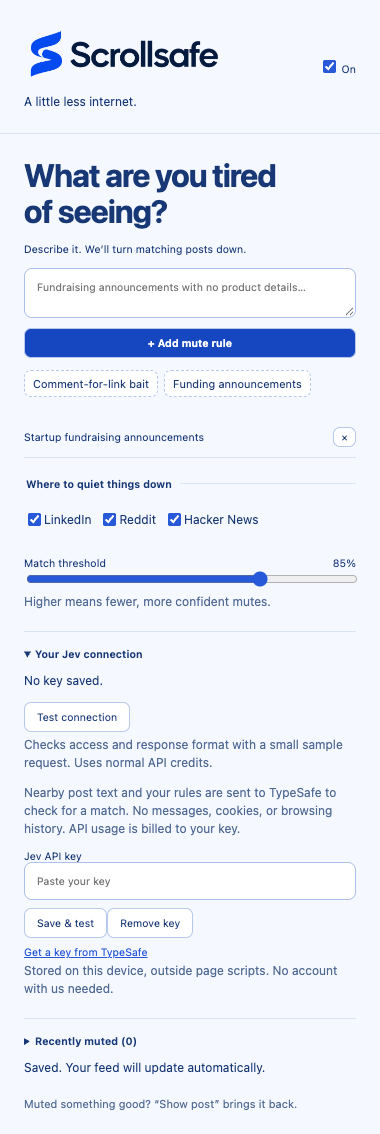
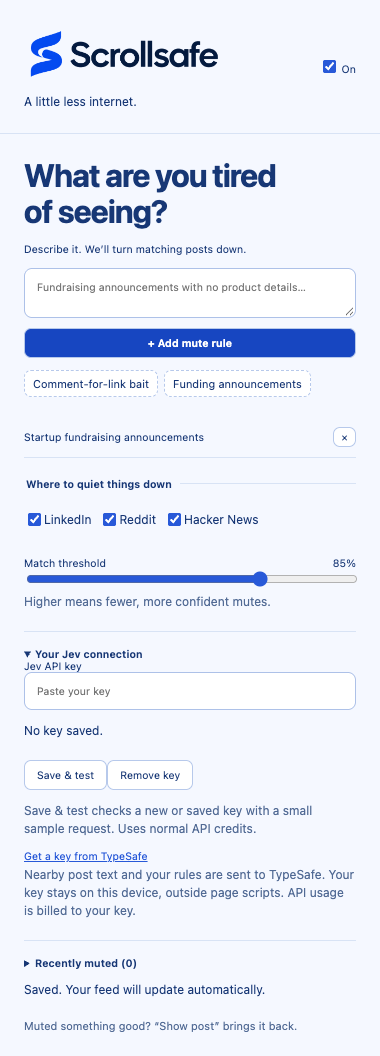
Fix silent API key setup and keep connection feedback visible

diff --git a/src/popup.ts b/src/popup.ts
@@ -1,6 +1,8 @@
 import {normalize,type Settings,type Site} from './core';
 const $=<T extends HTMLElement>(id:string)=>document.getElementById(id) as T;
 let config:Settings;
+let checking=false;
+function connectionStatus(text:string,state='pending'){const el=$('connection-status');el.textContent=text;el.dataset.state=state;}
 const status=(text:string)=>{$('status').textContent=text;};
 async function save(){await chrome.storage.local.set({settings:config});status('Saved. Your feed will update automatically.');}
 function render(){
@@ -13,7 +15,7 @@ function render(){
 async function add(rule:string){if(config.rules.length>=10){status('Up to 10 rules for now. Remove one to add another.');return;}if(!rule.trim()||config.rules.includes(rule.trim()))return;config.rules.push(rule.trim().slice(0,200));render();await save();}
 async function init(){const data=await chrome.storage.local.get(['settings','apiKey','lastError']);config=normalize(data.settings);render();$<HTMLDetailsElement>('setup').open=!data.apiKey;status(typeof data.lastError==='string'?data.lastError: (data.apiKey?'':'Add a Jev key to start muting.'));
   await renderDiagnostics();
-  $('test-connection').onclick=()=>{void testConnection();};
+  $<HTMLInputElement>('key').oninput=()=>{connectionStatus('Key entered. Click Save & test to connect.');};
   $('clear-history').onclick=async()=>{await chrome.storage.local.remove('hiddenPosts');await renderDiagnostics();};
   chrome.storage.onChanged.addListener(changes=>{if(changes.connection||changes.hiddenPosts||changes.apiKey)void renderDiagnostics();if(changes.lastError)status(typeof changes.lastError.newValue==='string'?changes.lastError.newValue:'');});
   $('rule-form').onsubmit=async e=>{e.preventDefault();await add($<HTMLTextAreaElement>('rule').value);$<HTMLTextAreaElement>('rule').value='';};
@@ -22,14 +24,14 @@ async function init(){const data=await chrome.storage.local.get(['settings','api
   for(const site of ['linkedin','reddit','hn'] as Site[])$<HTMLInputElement>(site).onchange=async e=>{config.sites[site]=(e.target as HTMLInputElement).checked;await save();};
   $<HTMLInputElement>('threshold').oninput=e=>{$('threshold-value').textContent=`${(e.target as HTMLInputElement).value}%`;};
   $<HTMLInputElement>('threshold').onchange=async e=>{config.threshold=Number((e.target as HTMLInputElement).value)/100;await save();};
-  $('key-form').onsubmit=async e=>{e.preventDefault();const key=$<HTMLInputElement>('key');if(!key.value.trim()){status('Paste a key first.');return;}await chrome.storage.local.set({apiKey:key.value.trim()});await chrome.storage.local.remove('lastError');key.value='';await testConnection();};
+  $('key-form').onsubmit=e=>{e.preventDefault();void testConnection();};
   $('clear-key').onclick=async()=>{await chrome.storage.local.remove('apiKey');await chrome.storage.local.remove(['connection','lastError']);await renderDiagnostics();status('Key removed. Posts will remain visible.');};
 }
 async function renderDiagnostics(){
   const data=await chrome.storage.local.get(['connection','apiKey','hiddenPosts']);
   const connection=data.connection as {ok:boolean;checkedAt:number;latencyMs?:number;error?:string}|undefined;
-  $('connection-status').textContent=!data.apiKey?'No key saved.':!connection?'Key saved — not tested yet.':connection.ok?`Connection verified · ${connection.latencyMs} ms. Jev returned a valid response at ${new Date(connection.checkedAt).toLocaleString()}.`: `Connection failed: ${connection.error}`;
-  $('connection-status').dataset.state=connection?.ok?'success':connection?'error':'pending';
+  if(!checking&&!$<HTMLInputElement>('key').value) $('connection-status').textContent=!data.apiKey?'No key saved.':!connection?'Key saved — not tested yet.':connection.ok?`Connection verified · ${connection.latencyMs} ms. Jev returned a valid response at ${new Date(connection.checkedAt).toLocaleString()}.`: `Connection failed: ${connection.error}`;
+  if(!checking&&!$<HTMLInputElement>('key').value) $('connection-status').dataset.state=connection?.ok?'success':connection?'error':'pending';
   const entries=Array.isArray(data.hiddenPosts)?data.hiddenPosts:[];
   $('hidden-count').textContent=`(${entries.length})`;
   $('hidden-posts').replaceChildren();
@@ -43,10 +45,34 @@ async function renderDiagnostics(){
   }
 }
 async function testConnection(){
-  const button=$<HTMLButtonElement>('test-connection');button.disabled=true;button.textContent='Testing…';
-  $('connection-status').textContent='Checking TypeSafe with a small sample post…';
-  try{const result=await chrome.runtime.sendMessage({type:'testConnection'});await renderDiagnostics();if(!result?.ok)$('connection-status').textContent=result?.error||'Connection check failed. Try again.';}
-  catch{$('connection-status').textContent='Could not reach the extension. Reload it and try again.';}
-  finally{button.disabled=false;button.textContent='Test connection';}
+  if(checking)return;
+  checking=true;
+  const button=$<HTMLButtonElement>('test-connection'),key=$<HTMLInputElement>('key'),remove=$<HTMLButtonElement>('clear-key');
+  button.disabled=true;remove.disabled=true;key.disabled=true;button.textContent='Connecting…';
+  connectionStatus('Saving and checking your connection…');
+  $('connection-status').scrollIntoView({block:'nearest'});
+  let timer:ReturnType<typeof setTimeout>|undefined;
+  try{
+    const draft=key.value.trim();
+    if(draft){await chrome.storage.local.remove(['connection','lastError']);await chrome.storage.local.set({apiKey:draft});}
+    const {apiKey}=await chrome.storage.local.get('apiKey');
+    if(!apiKey){connectionStatus('Paste your TypeSafe key first.','error');return;}
+    connectionStatus('Contacting TypeSafe… This can take up to 15 seconds.');
+    const result=await Promise.race([
+      chrome.runtime.sendMessage({type:'testConnection'}),
+      new Promise<never>((_,reject)=>{timer=setTimeout(()=>reject(new Error('Connection check timed out. Reload the extension and try again.')),20000);})
+    ]);
+    if(result?.ok){
+      key.value='';key.placeholder='Key saved · paste to replace';
+      connectionStatus(`Connected to TypeSafe · ${result.latencyMs} ms. Jev returned a valid response.`, 'success');
+    }else{connectionStatus(result?.error||'No response from the extension. Reload it at chrome://extensions and try again.','error');}
+  }catch(e){
+    const detail=e instanceof Error?e.message:'';
+    connectionStatus(/timed out/.test(detail)?detail:'Could not save or check the key. Reload Scrollsafe at chrome://extensions and try again.','error');
+  }finally{
+    if(timer)clearTimeout(timer);
+    checking=false;button.disabled=false;remove.disabled=false;key.disabled=false;button.textContent='Save & test';
+    $('connection-status').scrollIntoView({block:'nearest'});
+  }
 }
-void init();
+void init().catch(()=>{connectionStatus('Setup failed to load. Reload Scrollsafe at chrome://extensions and reopen this popup.','error');$<HTMLDetailsElement>('setup').open=true;});

diff --git a/public/popup.html b/public/popup.html
@@ -6,6 +6,8 @@
 <ul id="rules"></ul><p id="empty">Nothing muted yet. Add your first rule above.</p>
 <fieldset><legend>Where to quiet things down</legend><label><input id="linkedin" type="checkbox"> LinkedIn</label><label><input id="reddit" type="checkbox"> Reddit</label><label><input id="hn" type="checkbox"> Hacker News</label></fieldset>
 <label class="range" for="threshold">Match threshold <output id="threshold-value"></output></label><input id="threshold" type="range" min="50" max="99"><p class="hint">Higher means fewer, more confident mutes.</p>
-<details id="setup"><summary>Your Jev connection</summary><p id="connection-status" role="status" aria-live="polite"></p><button id="test-connection" type="button">Test connection</button><p class="hint">Checks access and response format with a small sample request. Uses normal API credits.</p><p class="hint">Nearby post text and your rules are sent to TypeSafe to check for a match. No messages, cookies, or browsing history. API usage is billed to your key.</p><form id="key-form"><label for="key">Jev API key</label><input id="key" type="password" autocomplete="off" placeholder="Paste your key"><button type="submit">Save &amp; test</button><button id="clear-key" type="button">Remove key</button></form><a href="https://console.typesafe.ai" target="_blank" rel="noreferrer">Get a key from TypeSafe</a><p class="hint">Stored on this device, outside page scripts. No account with us needed.</p></details>
+<details id="setup"><summary>Your Jev connection</summary>
+<form id="key-form"><label for="key">Jev API key</label><input id="key" type="password" autocomplete="off" placeholder="Paste your key" aria-describedby="connection-status"><p id="connection-status" role="status" aria-live="polite"></p><button id="test-connection" type="submit">Save &amp; test</button><button id="clear-key" type="button">Remove key</button></form>
+<p class="hint">Save &amp; test checks a new or saved key with a small sample request. Uses normal API credits.</p><a href="https://console.typesafe.ai" target="_blank" rel="noreferrer">Get a key from TypeSafe</a><p class="hint">Nearby post text and your rules are sent to TypeSafe. Your key stays on this device, outside page scripts. API usage is billed to your key.</p></details>
 <details id="debug"><summary>Recently muted <span id="hidden-count"></span></summary><p class="hint">Last 50 posts muted on this device. Includes posts you later revealed. Kept until cleared; links open the original post.</p><ul id="hidden-posts"></ul><button id="clear-history" type="button">Clear history</button></details>
 <p id="status" role="status" aria-live="polite"></p><footer>Muted something good? “Show post” brings it back.</footer></main><script src="popup.js"></script></body></html>

diff --git a/src/background.ts b/src/background.ts
@@ -24,7 +24,7 @@ chrome.runtime.onMessage.addListener((msg,sender,reply)=>{
         const connection={ok:true,checkedAt:Date.now(),latencyMs:Date.now()-started};
         await chrome.storage.local.set({connection});await chrome.storage.local.remove('lastError');backoffUntil=0;reply(connection);
       }catch(e){const error=errorText(e);if((await chrome.storage.local.get('apiKey')).apiKey===apiKey)await chrome.storage.local.set({connection:{ok:false,checkedAt:Date.now(),error}});reply({ok:false,error});}
-    })();return true;
+    })().catch(()=>reply({ok:false,error:'Could not read or save extension settings. Reload Scrollsafe and try again.'}));return true;
   }
   if(msg?.type==='recordHidden'){
     const job=historyChain.then(async()=>{

diff --git a/README.md b/README.md
@@ -21,7 +21,7 @@ The source is free and MIT licensed. Jev is a hosted API, not an included local 
 
 ## Connection checks and mute history
 
-Open **Your Jev connection** to retest a saved key. A saved key is not shown as connected until a live test succeeds. The test checks authentication and the response format, not real-world classification accuracy; it uses a tiny sample post and incurs normal API usage.
+Open **Your Jev connection** and click **Save & test** to check a pasted or previously saved key. Pasting shows an explicit unsaved-key hint; connection feedback stays beside the field. Failed checks keep the draft in place, and storage/messaging failures are shown inline. A saved key is not shown as connected until a live test succeeds. The test checks authentication and the response format, not real-world classification accuracy; it uses a tiny sample post and incurs normal API usage.
 
 **Recently muted** is a collapsed debugging panel with the latest 50 muted posts: excerpt, original post link when available, matching rule, score, site, and timestamp. It records posts actually collapsed by the content script, including cached decisions. It is a historical log, so entries remain after you reveal a post or disable filtering. Repeated posts are deduplicated. **Clear history** removes the local log. No log is uploaded.
 
